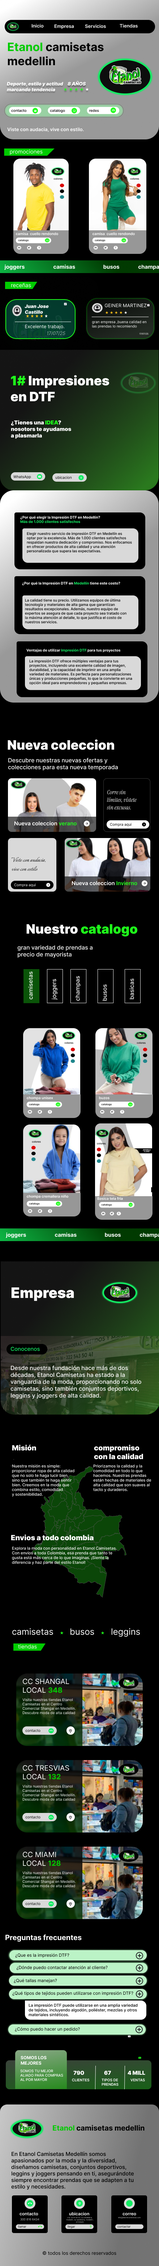
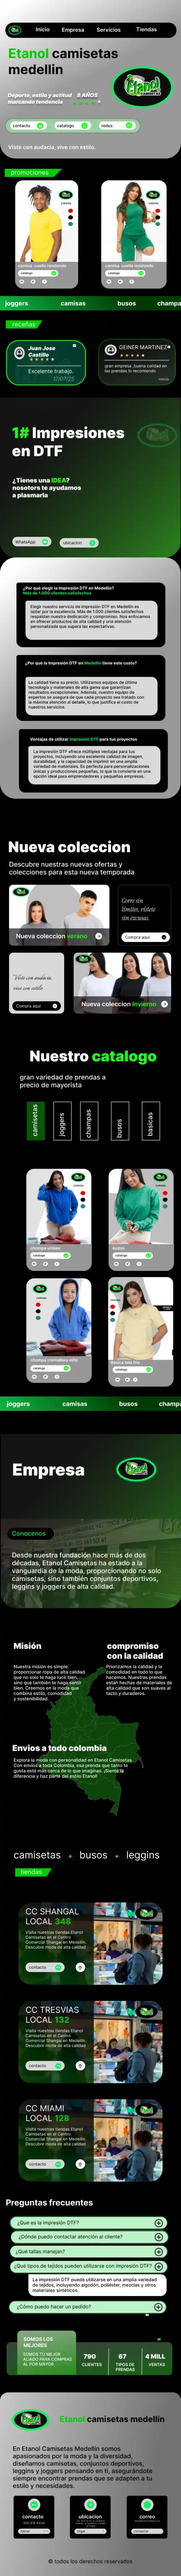
🚀 Optimización definitiva: eliminar Lottie (3.2s CPU), comprimir imágenes 70%

diff --git a/index.html b/index.html
@@ -11,11 +11,7 @@
     <link rel="preconnect" href="https://fonts.gstatic.com" crossorigin>
     <link rel="preconnect" href="https://cdn.tailwindcss.com">
     <link rel="preconnect" href="https://cdnjs.cloudflare.com">
-    <link rel="preconnect" href="https://assets9.lottiefiles.com">
     <link rel="preconnect" href="https://cdn.jsdelivr.net">
-    
-    <!-- DNS Prefetch para recursos secundarios -->
-    <link rel="dns-prefetch" href="https://unpkg.com">
     
     <!-- Precargar fuente crítica -->
     <link rel="preload" href="https://fonts.googleapis.com/css2?family=Montserrat:wght@400;600;700&display=swap" as="style">
@@ -26,9 +22,6 @@
     <!-- Animate.css con media print para no bloquear -->
     <link rel="stylesheet" href="https://cdnjs.cloudflare.com/ajax/libs/animate.css/4.1.1/animate.min.css" media="print" onload="this.media='all'"/>
     <noscript><link rel="stylesheet" href="https://cdnjs.cloudflare.com/ajax/libs/animate.css/4.1.1/animate.min.css"/></noscript>
-    
-    <!-- Lottie Player cargado de forma diferida -->
-    <script defer src="https://unpkg.com/@lottiefiles/lottie-player@latest/dist/lottie-player.js"></script>
     
     <!-- Fuentes con display=swap -->
     <link rel="stylesheet" href="https://fonts.googleapis.com/css2?family=Montserrat:wght@400;600;700&display=swap">
@@ -44,6 +37,57 @@
             min-height: 400px;
             aspect-ratio: 1/1;
             contain: layout;
+        }
+        
+        /* Animaciones SVG que reemplazan Lottie */
+        .hero-animation {
+            width: 100%;
+            height: 100%;
+            display: flex;
+            align-items: center;
+            justify-content: center;
+        }
+        .hero-svg {
+            width: 280px;
+            height: 280px;
+        }
+        .pulse-ring {
+            animation: pulse-ring 2s ease-out infinite;
+            transform-origin: center;
+        }
+        .pulse-ring-delay {
+            animation: pulse-ring 2s ease-out infinite 0.5s;
+            transform-origin: center;
+        }
+        .rotate-slow {
+            animation: rotate-slow 20s linear infinite;
+            transform-origin: center;
+        }
+        .float-element {
+            animation: float-element 3s ease-in-out infinite;
+        }
+        @keyframes pulse-ring {
+            0% { opacity: 0.8; transform: scale(1); }
+            100% { opacity: 0; transform: scale(1.5); }
+        }
+        @keyframes rotate-slow {
+            from { transform: rotate(0deg); }
+            to { transform: rotate(360deg); }
+        }
+        @keyframes float-element {
+            0%, 100% { transform: translateY(0); }
+            50% { transform: translateY(-10px); }
+        }
+        .step-animation {
+            width: 100%;
+            height: 200px;
+            display: flex;
+            align-items: center;
+            justify-content: center;
+        }
+        .step-svg {
+            width: 120px;
+            height: 120px;
         }
         
         body {
@@ -618,7 +662,26 @@
                 
                 <!-- Contenedor con dimensiones fijas para evitar CLS -->
                 <div class="animate__animated animate__fadeInRight" style="min-height: 400px; aspect-ratio: 1/1;">
-                    <lottie-player src="https://assets9.lottiefiles.com/packages/lf20_kkflmtur.json" background="transparent" speed="1" style="width: 100%; height: 100%;" loop autoplay class="floating"></lottie-player>
+                    <div class="hero-animation floating">
+                        <svg class="hero-svg" viewBox="0 0 200 200" fill="none" xmlns="http://www.w3.org/2000/svg">
+                            <circle cx="100" cy="100" r="80" stroke="rgba(255,255,255,0.1)" stroke-width="1" class="pulse-ring"/>
+                            <circle cx="100" cy="100" r="60" stroke="rgba(255,255,255,0.15)" stroke-width="1" class="pulse-ring-delay"/>
+                            <g class="rotate-slow">
+                                <circle cx="100" cy="30" r="8" fill="white" opacity="0.8"/>
+                                <circle cx="170" cy="100" r="6" fill="white" opacity="0.6"/>
+                                <circle cx="100" cy="170" r="8" fill="white" opacity="0.8"/>
+                                <circle cx="30" cy="100" r="6" fill="white" opacity="0.6"/>
+                            </g>
+                            <circle cx="100" cy="100" r="40" fill="url(#grad1)" class="float-element"/>
+                            <text x="100" y="108" text-anchor="middle" fill="white" font-size="24" font-weight="bold">&lt;/&gt;</text>
+                            <defs>
+                                <linearGradient id="grad1" x1="0%" y1="0%" x2="100%" y2="100%">
+                                    <stop offset="0%" style="stop-color:#333;stop-opacity:1" />
+                                    <stop offset="100%" style="stop-color:#111;stop-opacity:1" />
+                                </linearGradient>
+                            </defs>
+                        </svg>
+                    </div>
                 </div>
             </div>
         </div>
@@ -671,7 +734,27 @@
  
                 
                 <div class="animate__animated animate__fadeInRight lottie-container-hero">
-                    <lottie-player src="assets/animations/animacion1.json" background="transparent" speed="1" style="width: 100%; height: 100%;" loop autoplay class="floating"></lottie-player>
+                    <div class="hero-animation floating">
+                        <svg class="hero-svg" viewBox="0 0 200 200" fill="none" xmlns="http://www.w3.org/2000/svg">
+                            <circle cx="100" cy="100" r="80" stroke="#4FACFE" stroke-width="1" opacity="0.3" class="pulse-ring"/>
+                            <circle cx="100" cy="100" r="60" stroke="#00F2FE" stroke-width="1" opacity="0.4" class="pulse-ring-delay"/>
+                            <g class="rotate-slow">
+                                <circle cx="100" cy="25" r="6" fill="#4FACFE"/>
+                                <circle cx="175" cy="100" r="5" fill="#00F2FE"/>
+                                <circle cx="100" cy="175" r="6" fill="#4FACFE"/>
+                                <circle cx="25" cy="100" r="5" fill="#00F2FE"/>
+                            </g>
+                            <circle cx="100" cy="100" r="45" fill="url(#gradIA)" class="float-element"/>
+                            <text x="100" y="105" text-anchor="middle" fill="white" font-size="20" font-weight="bold">IA</text>
+                            <path d="M85 120 L100 130 L115 120" stroke="#4FACFE" stroke-width="2" fill="none" opacity="0.8"/>
+                            <defs>
+                                <linearGradient id="gradIA" x1="0%" y1="0%" x2="100%" y2="100%">
+                                    <stop offset="0%" style="stop-color:#1a3a4a;stop-opacity:1" />
+                                    <stop offset="100%" style="stop-color:#0a1a2a;stop-opacity:1" />
+                                </linearGradient>
+                            </defs>
+                        </svg>
+                    </div>
                 </div>
                                <div class="animate__animated animate__fadeInLeft">
                     <div class="inline-flex items-center px-4 py-2 rounded-full bg-black bg-opacity-50 border border-[#4FACFE] text-[#4FACFE] text-sm mb-6">
@@ -955,8 +1038,12 @@ Creamos una interacción personalizada para entender tus necesidades, objetivos 
                         </div>
                         <div class="lg:order-2 flex justify-center lg:justify-start">
                             <div class="glass-effect p-6 rounded-xl w-full max-w-md hover-scale">
-                                <div class="lottie-container">
-                                    <lottie-player src="assets/animations/animacion2.json" background="transparent" speed="1" style="width: 100%; height: 200px;" loop autoplay></lottie-player>
+                                <div class="step-animation">
+                                    <svg class="step-svg float-element" viewBox="0 0 100 100" fill="none" xmlns="http://www.w3.org/2000/svg">
+                                        <circle cx="40" cy="40" r="25" stroke="white" stroke-width="3" fill="none"/>
+                                        <line x1="58" y1="58" x2="80" y2="80" stroke="white" stroke-width="4" stroke-linecap="round"/>
+                                        <circle cx="40" cy="40" r="15" stroke="white" stroke-width="1" opacity="0.5" class="pulse-ring"/>
+                                    </svg>
                                 </div>
                             </div>
                         </div>
@@ -976,8 +1063,16 @@ Creamos prototipos y diseños visuales que reflejan tu marca y mejoran la experi
                         </div>
                         <div class="lg:order-1 flex justify-center lg:justify-end">
                             <div class="glass-effect p-6 rounded-xl w-full max-w-md hover-scale">
-                                <div class="lottie-container">
-                                    <lottie-player src="assets/animations/animacion3.json" background="transparent" speed="1" style="width: 100%; height: 200px;" loop autoplay></lottie-player>
+                                <div class="step-animation">
+                                    <svg class="step-svg float-element" viewBox="0 0 100 100" fill="none" xmlns="http://www.w3.org/2000/svg">
+                                        <rect x="15" y="15" width="70" height="50" rx="4" stroke="white" stroke-width="3" fill="none"/>
+                                        <line x1="15" y1="30" x2="85" y2="30" stroke="white" stroke-width="2"/>
+                                        <circle cx="25" cy="22" r="3" fill="white" opacity="0.7"/>
+                                        <circle cx="35" cy="22" r="3" fill="white" opacity="0.7"/>
+                                        <rect x="25" y="40" width="50" height="15" rx="2" stroke="white" stroke-width="1" opacity="0.5"/>
+                                        <line x1="50" y1="75" x2="50" y2="90" stroke="white" stroke-width="3"/>
+                                        <line x1="35" y1="90" x2="65" y2="90" stroke="white" stroke-width="3" stroke-linecap="round"/>
+                                    </svg>
                                 </div>
                             </div>
                         </div>
@@ -997,8 +1092,12 @@ Implementamos soluciones tecnológicas con las mejores prácticas y los estánda
                         </div>
                         <div class="lg:order-2 flex justify-center lg:justify-start">
                             <div class="glass-effect p-6 rounded-xl w-full max-w-md hover-scale">
-                                <div class="lottie-container">
-                                    <lottie-player src="assets/animations/animacion4.json" background="transparent" speed="1" style="width: 100%; height: 200px;" loop autoplay></lottie-player>
+                                <div class="step-animation">
+                                    <svg class="step-svg float-element" viewBox="0 0 100 100" fill="none" xmlns="http://www.w3.org/2000/svg">
+                                        <path d="M35 35 L15 50 L35 65" stroke="white" stroke-width="4" stroke-linecap="round" stroke-linejoin="round" fill="none"/>
+                                        <path d="M65 35 L85 50 L65 65" stroke="white" stroke-width="4" stroke-linecap="round" stroke-linejoin="round" fill="none"/>
+                                        <line x1="55" y1="25" x2="45" y2="75" stroke="white" stroke-width="3" stroke-linecap="round"/>
+                                    </svg>
                                 </div>
                             </div>
                         </div>
@@ -1019,8 +1118,16 @@ Impulsamos tu proyecto con calidad garantizada y un soporte constante que genera
                         </div>
                         <div class="lg:order-1 flex justify-center lg:justify-end">
                             <div class="glass-effect p-6 rounded-xl w-full max-w-md hover-scale">
-                                <div class="lottie-container">
-                                    <lottie-player src="assets/animations/animacion5.json" background="transparent" speed="1" style="width: 100%; height: 200px;" loop autoplay></lottie-player>
+                                <div class="step-animation">
+                                    <svg class="step-svg float-element" viewBox="0 0 100 100" fill="none" xmlns="http://www.w3.org/2000/svg">
+                                        <path d="M50 15 C50 15 65 30 65 55 L50 70 L35 55 C35 30 50 15 50 15Z" stroke="white" stroke-width="3" fill="none"/>
+                                        <circle cx="50" cy="40" r="6" stroke="white" stroke-width="2" fill="none"/>
+                                        <path d="M35 55 L25 65 L35 60" stroke="white" stroke-width="2" fill="none"/>
+                                        <path d="M65 55 L75 65 L65 60" stroke="white" stroke-width="2" fill="none"/>
+                                        <path d="M45 70 L45 85" stroke="white" stroke-width="2" opacity="0.6"/>
+                                        <path d="M50 70 L50 90" stroke="white" stroke-width="2" opacity="0.4"/>
+                                        <path d="M55 70 L55 85" stroke="white" stroke-width="2" opacity="0.6"/>
+                                    </svg>
                                 </div>
                             </div>
                         </div>
